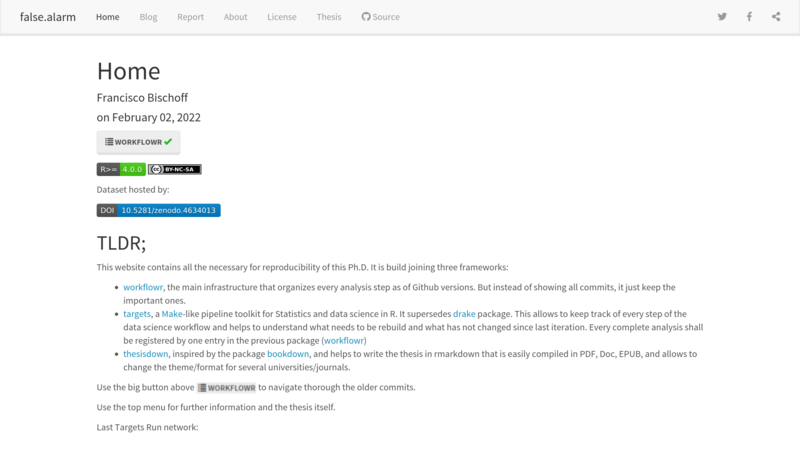
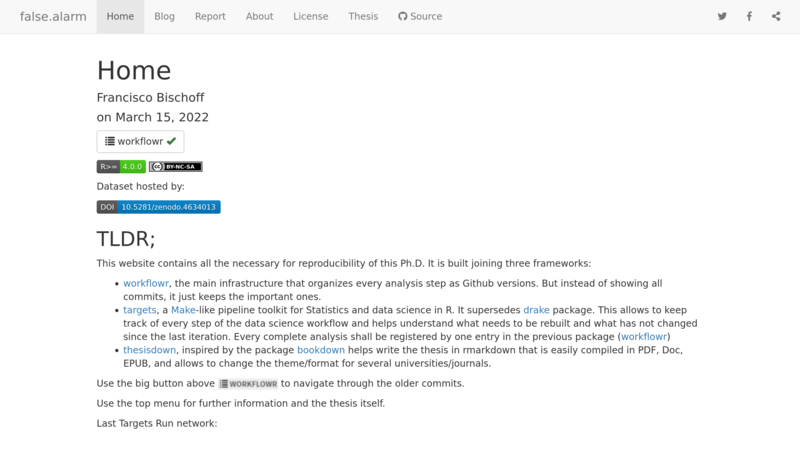
Update GitHub

Changed region(s): [[0.125, 0.1244, 0.875, 0.9644], [0.0312, 0.0311, 0.5625, 0.0622]]

diff --git a/content/projects/github/franzbischoff/false.alarm/index.md b/content/projects/github/franzbischoff/false.alarm/index.md
@@ -2,7 +2,7 @@
 date: '2020-05-05T16:51:02Z'
 description: PhD Programme in Health Data Science - detecting life-threatening ECG
   patterns using low-end devices
-lastmod: '2022-03-03T02:06:31Z'
+lastmod: '2022-03-15T00:18:49Z'
 title: false.alarm
 topics:
 - ecg
